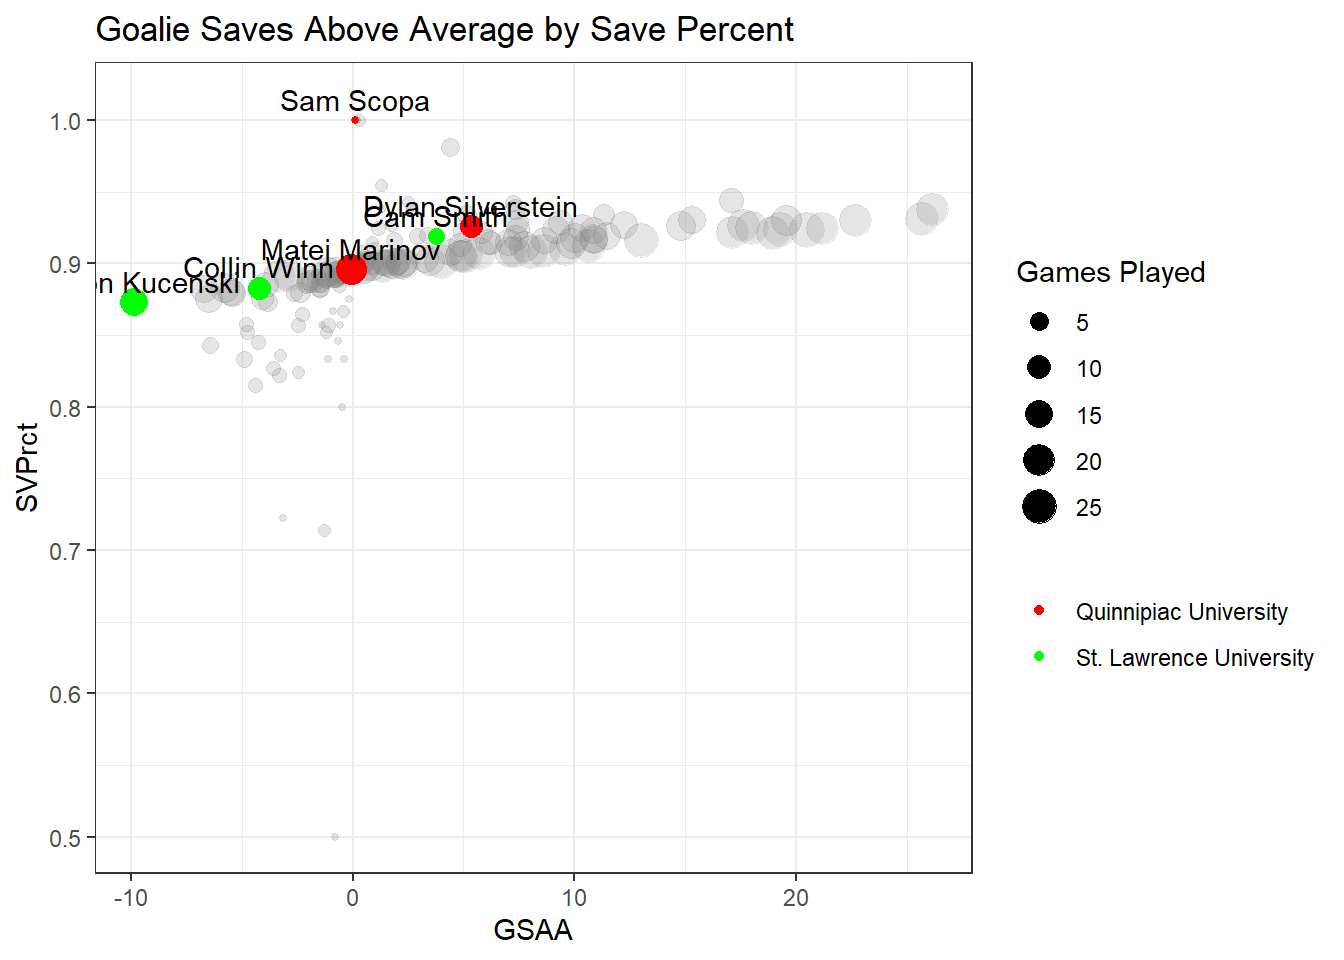
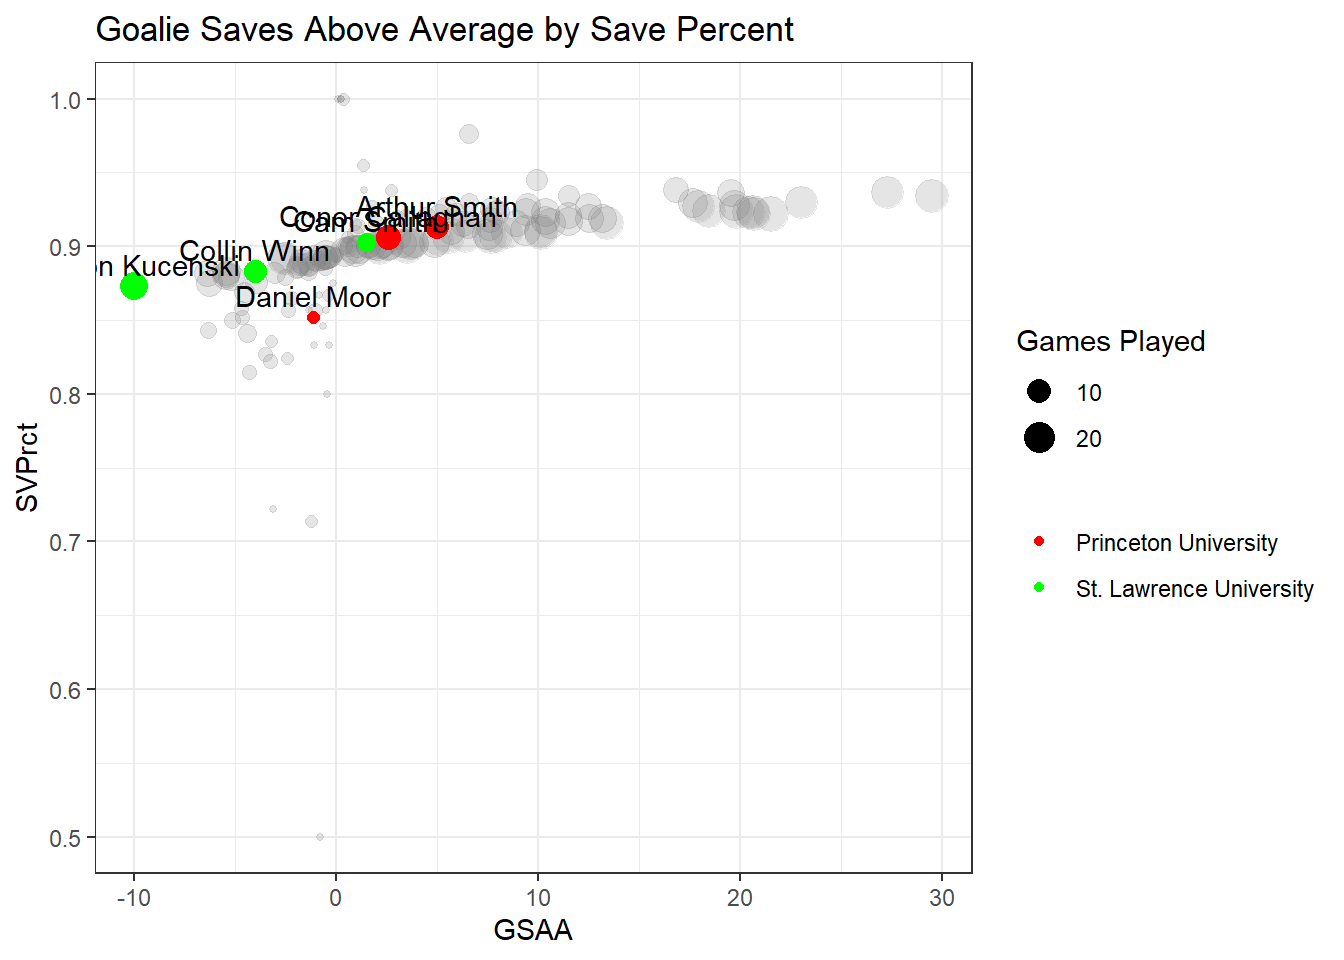
Updated for Princeton game

diff --git a/docs/posts/College Hockey/index.html b/docs/posts/College Hockey/index.html
@@ -8,6 +8,7 @@
 
 <meta name="author" content="Julian Fitz">
 <meta name="dcterms.date" content="2026-01-28">
+<meta name="description" content="Simple college hockey dashboard with game outcome prediction">
 
 <title>Hockey Game Prediction – ds334_blog</title>
 <style>
@@ -171,7 +172,12 @@ pre > code.sourceCode > span > a:first-child::before { text-decoration: underlin
   <div class="quarto-title-banner page-columns page-full">
     <div class="quarto-title column-body">
       <h1 class="title">Hockey Game Prediction</h1>
-                                <div class="quarto-categories">
+                  <div>
+        <div class="description">
+          Simple college hockey dashboard with game outcome prediction
+        </div>
+      </div>
+                          <div class="quarto-categories">
                 <div class="quarto-category">sports</div>
                 <div class="quarto-category">hockey</div>
                 <div class="quarto-category">analysis</div>
@@ -211,34 +217,33 @@ pre > code.sourceCode > span > a:first-child::before { text-decoration: underlin
 
 
 
-<section id="setup" class="level2">
-<h2 class="anchored" data-anchor-id="setup">Setup</h2>
-<p>Set the variables</p>
+<section id="set-the-variables" class="level3">
+<h3 class="anchored" data-anchor-id="set-the-variables">Set the variables</h3>
 <div class="cell">
 <div class="code-copy-outer-scaffold"><div class="sourceCode cell-code" id="cb1"><pre class="sourceCode r code-with-copy"><code class="sourceCode r"><span id="cb1-1"><a href="#cb1-1" aria-hidden="true" tabindex="-1"></a><span class="co"># url for the composite schedule (ONLY WORKS WITH USCHO (1/20/2026))</span></span>
 <span id="cb1-2"><a href="#cb1-2" aria-hidden="true" tabindex="-1"></a><span class="co"># url &lt;- "https://www.uscho.com/scoreboard/division-i-women/20252026/composite-schedule/"</span></span>
 <span id="cb1-3"><a href="#cb1-3" aria-hidden="true" tabindex="-1"></a>url <span class="ot">&lt;-</span> <span class="st">"https://www.uscho.com/scoreboard/division-i-men/20252026/composite-schedule/"</span></span>
 <span id="cb1-4"><a href="#cb1-4" aria-hidden="true" tabindex="-1"></a>home_team <span class="ot">&lt;-</span> <span class="st">"St. Lawrence University"</span></span>
-<span id="cb1-5"><a href="#cb1-5" aria-hidden="true" tabindex="-1"></a>away_team <span class="ot">&lt;-</span> <span class="st">"Quinnipiac University"</span></span></code></pre></div><button title="Copy to Clipboard" class="code-copy-button"><i class="bi"></i></button></div>
+<span id="cb1-5"><a href="#cb1-5" aria-hidden="true" tabindex="-1"></a>away_team <span class="ot">&lt;-</span> <span class="st">"Princeton University"</span></span></code></pre></div><button title="Copy to Clipboard" class="code-copy-button"><i class="bi"></i></button></div>
 </div>
 </section>
 <section id="outcome-prediction" class="level1">
 <h1>Outcome Prediction</h1>
 <div class="cell">
 <div class="cell-output cell-output-stdout">
-<pre><code>Probability of St. Lawrence University win:  0.02756388 </code></pre>
+<pre><code>Probability of St. Lawrence University win:  0.09515896 </code></pre>
 </div>
 <div class="cell-output cell-output-stdout">
-<pre><code>St. Lawrence University Expected Goals:  1.583893 </code></pre>
+<pre><code>St. Lawrence University Expected Goals:  1.880149 </code></pre>
 </div>
 <div class="cell-output cell-output-stdout">
-<pre><code>Probability of Quinnipiac University win:  0.8876717 </code></pre>
+<pre><code>Probability of Princeton University win:  0.8048577 </code></pre>
 </div>
 <div class="cell-output cell-output-stdout">
-<pre><code>Quinnipiac University Expected Goals:  6.106541 </code></pre>
+<pre><code>Princeton University Expected Goals:  4.613852 </code></pre>
 </div>
 <div class="cell-output cell-output-stdout">
-<pre><code>Probability of a tie:  0.03758455</code></pre>
+<pre><code>Probability of a tie:  0.09203802</code></pre>
 </div>
 </div>
 <div class="cell">
@@ -275,15 +280,15 @@ pre > code.sourceCode > span > a:first-child::before { text-decoration: underlin
 <p><strong>St.&nbsp;Lawrence University Goalies</strong></p>
 <div class="cell">
 <div class="cell-output-display">
-<div class="reactable html-widget html-fill-item" id="htmlwidget-71df84d497b9b866f272" style="width:auto;height:auto;"></div>
-<script type="application/json" data-for="htmlwidget-71df84d497b9b866f272">{"x":{"tag":{"name":"Reactable","attribs":{"data":{"Rk":[51,82,107],"Name":["Mason Kucenski","Collin Winn","Cam Smith"],"Age":[23,21,23],"GP":[14,9,4],"SVPrct":[0.873,0.883,0.919],"W":[2,0,1],"L":[11,7,2],"GA":[55,37,13],"SV":[379,278,148],"SOG":[434,315,161],"TIME":[812,493,241],"GSAA":[-9.83,-4.215,3.757],"relative_save_prct":[-0.019,-0.009,0.027]},"columns":[{"id":"Rk","name":"Rank","type":"numeric"},{"id":"Name","name":"Name","type":"character"},{"id":"Age","name":"Age","type":"numeric"},{"id":"GP","name":"Games Played","type":"numeric"},{"id":"SVPrct","name":"Save %","type":"numeric"},{"id":"W","name":"Wins","type":"numeric"},{"id":"L","name":"Losses","type":"numeric"},{"id":"GA","name":"Goals Allowed","type":"numeric"},{"id":"SV","name":"Saves","type":"numeric"},{"id":"SOG","name":"Shots on Goal","type":"numeric"},{"id":"TIME","name":"Time On Ice","type":"numeric"},{"id":"GSAA","name":"Goals Saved Above Average","type":"numeric"},{"id":"relative_save_prct","name":"Relative Save Percent","type":"numeric"}],"dataKey":"afa1cd1609d1b2137e88db89d704a11a"},"children":[]},"class":"reactR_markup"},"evals":[],"jsHooks":[]}</script>
+<div class="reactable html-widget html-fill-item" id="htmlwidget-02368cdd428c0387c436" style="width:auto;height:auto;"></div>
+<script type="application/json" data-for="htmlwidget-02368cdd428c0387c436">{"x":{"tag":{"name":"Reactable","attribs":{"data":{"Rk":[49,82,104],"Name":["Mason Kucenski","Collin Winn","Cam Smith"],"Age":[23,21,23],"GP":[15,9,5],"SVPrct":[0.873,0.883,0.903],"W":[2,0,1],"L":[11,7,3],"GA":[57,37,18],"SV":[392,278,168],"SOG":[449,315,186],"TIME":[840,493,272],"GSAA":[-10.001,-4.027,1.47],"relative_save_prct":[-0.013,-0.003,0.017]},"columns":[{"id":"Rk","name":"Rank","type":"numeric"},{"id":"Name","name":"Name","type":"character"},{"id":"Age","name":"Age","type":"numeric"},{"id":"GP","name":"Games Played","type":"numeric"},{"id":"SVPrct","name":"Save %","type":"numeric"},{"id":"W","name":"Wins","type":"numeric"},{"id":"L","name":"Losses","type":"numeric"},{"id":"GA","name":"Goals Allowed","type":"numeric"},{"id":"SV","name":"Saves","type":"numeric"},{"id":"SOG","name":"Shots on Goal","type":"numeric"},{"id":"TIME","name":"Time On Ice","type":"numeric"},{"id":"GSAA","name":"Goals Saved Above Average","type":"numeric"},{"id":"relative_save_prct","name":"Relative Save Percent","type":"numeric"}],"dataKey":"ee6c93340849a9e25859b6a091eb9d48"},"children":[]},"class":"reactR_markup"},"evals":[],"jsHooks":[]}</script>
 </div>
 </div>
-<p><strong>Quinnipiac University Goalies</strong></p>
+<p><strong>Princeton University Goalies</strong></p>
 <div class="cell">
 <div class="cell-output-display">
-<div class="reactable html-widget html-fill-item" id="htmlwidget-5bec99c3295f12778ff4" style="width:auto;height:auto;"></div>
-<script type="application/json" data-for="htmlwidget-5bec99c3295f12778ff4">{"x":{"tag":{"name":"Reactable","attribs":{"data":{"Rk":[31,84,153],"Name":["Matej Marinov","Dylan Silverstein","Sam Scopa"],"Age":[22,21,20],"GP":[18,9,1],"SVPrct":[0.896,0.926,1],"W":[13,6,0],"L":[3,2,0],"GA":[44,13,0],"SV":[378,163,1],"SOG":[422,176,1],"TIME":[1081,485,3],"GSAA":[-0.079,5.318,0.104],"relative_save_prct":[-0.045,-0.015,0.059]},"columns":[{"id":"Rk","name":"Rank","type":"numeric"},{"id":"Name","name":"Name","type":"character"},{"id":"Age","name":"Age","type":"numeric"},{"id":"GP","name":"Games Played","type":"numeric"},{"id":"SVPrct","name":"Save %","type":"numeric"},{"id":"W","name":"Wins","type":"numeric"},{"id":"L","name":"Losses","type":"numeric"},{"id":"GA","name":"Goals Allowed","type":"numeric"},{"id":"SV","name":"Saves","type":"numeric"},{"id":"SOG","name":"Shots on Goal","type":"numeric"},{"id":"TIME","name":"Time On Ice","type":"numeric"},{"id":"GSAA","name":"Goals Saved Above Average","type":"numeric"},{"id":"relative_save_prct","name":"Relative Save Percent","type":"numeric"}],"dataKey":"27f57841e403238d83b467d64e70bda4"},"children":[]},"class":"reactR_markup"},"evals":[],"jsHooks":[]}</script>
+<div class="reactable html-widget html-fill-item" id="htmlwidget-cc1d3556998615cc3e8b" style="width:auto;height:auto;"></div>
+<script type="application/json" data-for="htmlwidget-cc1d3556998615cc3e8b">{"x":{"tag":{"name":"Reactable","attribs":{"data":{"Rk":[75,80,133],"Name":["Conor Callaghan","Arthur Smith","Daniel Moor"],"Age":[22,21,19],"GP":[11,10,2],"SVPrct":[0.906,0.913,0.852],"W":[7,5,0],"L":[2,5,1],"GA":[23,24,4],"SV":[221,253,23],"SOG":[244,277,27],"TIME":[588,584,85],"GSAA":[2.541,4.995,-1.174],"relative_save_prct":[0.016,0.023,-0.038]},"columns":[{"id":"Rk","name":"Rank","type":"numeric"},{"id":"Name","name":"Name","type":"character"},{"id":"Age","name":"Age","type":"numeric"},{"id":"GP","name":"Games Played","type":"numeric"},{"id":"SVPrct","name":"Save %","type":"numeric"},{"id":"W","name":"Wins","type":"numeric"},{"id":"L","name":"Losses","type":"numeric"},{"id":"GA","name":"Goals Allowed","type":"numeric"},{"id":"SV","name":"Saves","type":"numeric"},{"id":"SOG","name":"Shots on Goal","type":"numeric"},{"id":"TIME","name":"Time On Ice","type":"numeric"},{"id":"GSAA","name":"Goals Saved Above Average","type":"numeric"},{"id":"relative_save_prct","name":"Relative Save Percent","type":"numeric"}],"dataKey":"e71d389b3479c7119fa6c6e9c0a6b0f2"},"children":[]},"class":"reactR_markup"},"evals":[],"jsHooks":[]}</script>
 </div>
 </div>
 <div class="cell">

diff --git a/docs/index.html b/docs/index.html
@@ -209,7 +209,7 @@ window.Quarto = {
 
 <div class="quarto-listing quarto-listing-container-default" id="listing-listing">
 <div class="list quarto-listing-default">
-<div class="quarto-post image-right" data-index="0" data-categories="c3BvcnRzJTJDaG9ja2V5JTJDYW5hbHlzaXM=" data-listing-date-sort="1769576400000" data-listing-file-modified-sort="1769635928479" data-listing-date-modified-sort="NaN" data-listing-reading-time-sort="30" data-listing-word-count-sort="5931">
+<div class="quarto-post image-right" data-index="0" data-categories="c3BvcnRzJTJDaG9ja2V5JTJDYW5hbHlzaXM=" data-listing-date-sort="1769576400000" data-listing-file-modified-sort="1769890703439" data-listing-date-modified-sort="NaN" data-listing-reading-time-sort="30" data-listing-word-count-sort="5922">
 <div class="thumbnail"><a href="./posts/College Hockey/index.html" class="no-external">
 
 <p class="card-img-top"><img src="posts\College Hockey\index_files\figure-html\unnamed-chunk-15-1.png"  class="thumbnail-image card-img"/></p>
@@ -229,7 +229,7 @@ window.Quarto = {
 
 </div>
 <div class="delink listing-description"><a href="./posts/College Hockey/index.html" class="no-external">
-Set the variables
+<p>Simple college hockey dashboard with game outcome prediction</p>
 </a></div>
 </div>
 <div class="metadata">
